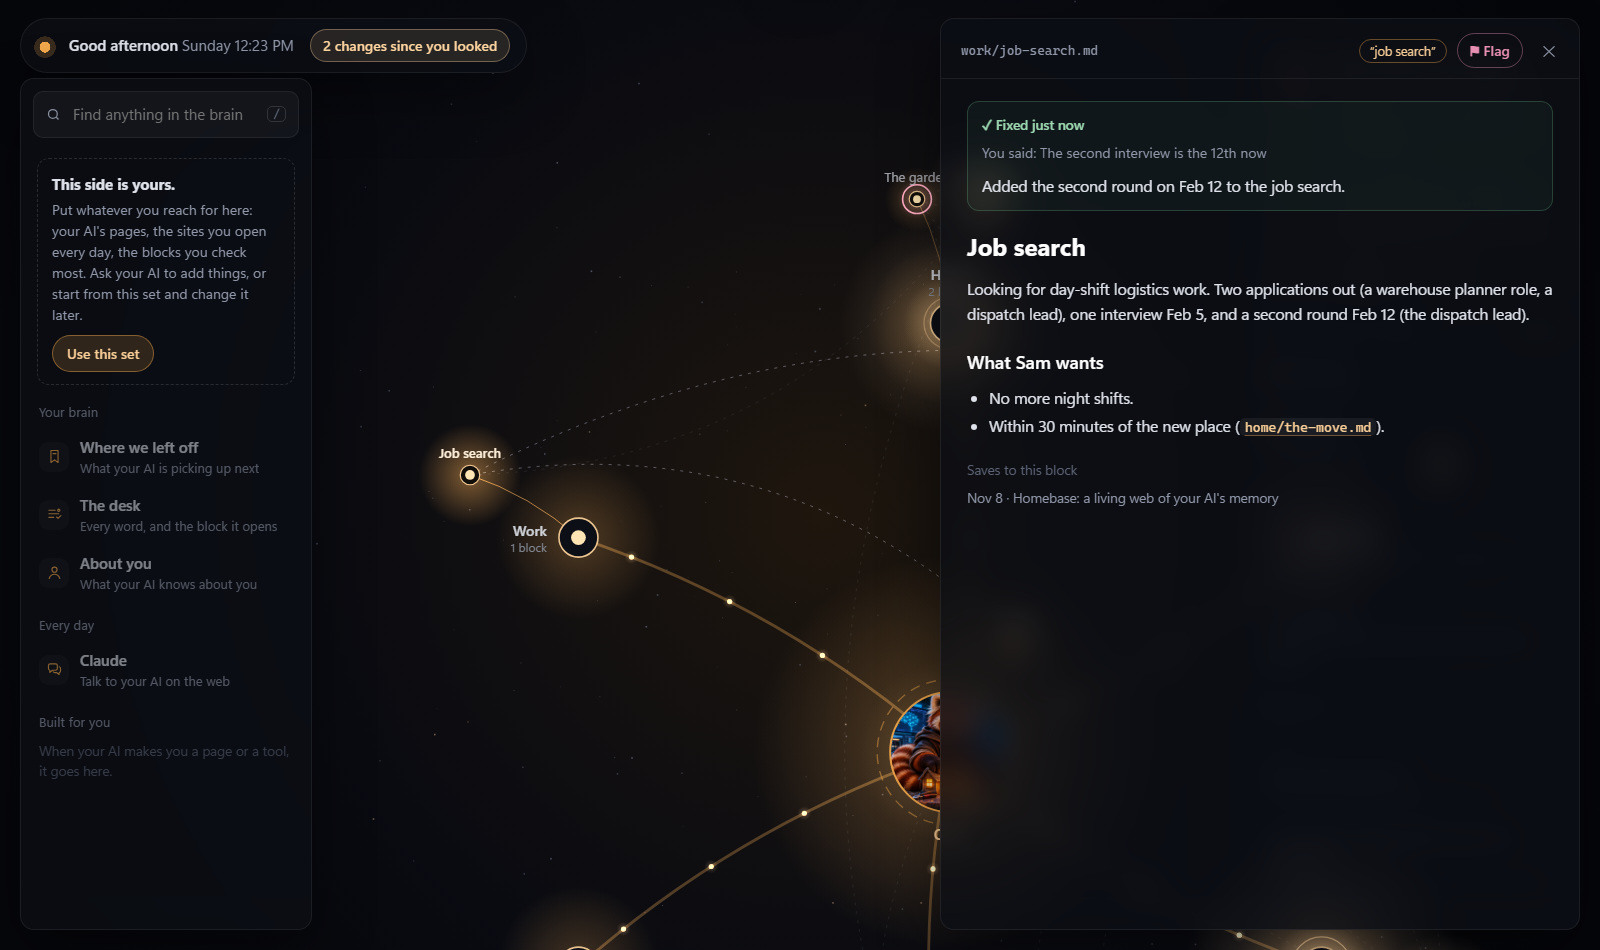
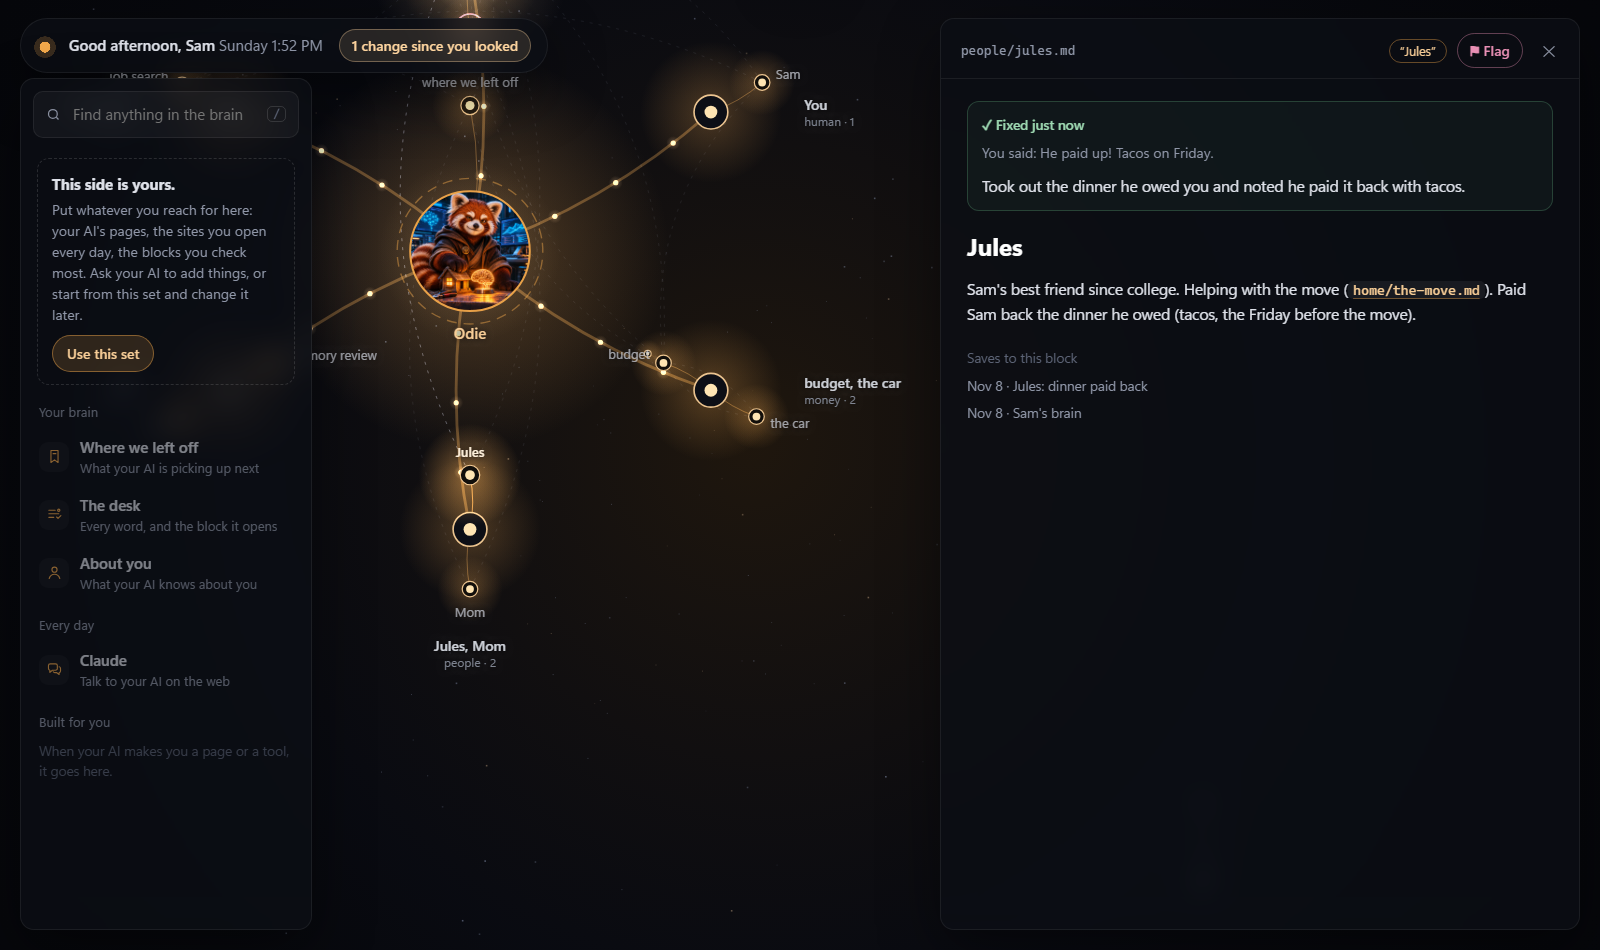
Fresh pictures in the new layout (a flag waiting, a flag fixed, what changed); flags as the way in for someone new; flags and the glass together

diff --git a/public/index.html b/public/index.html
@@ -137,6 +137,7 @@ canvas.drag{cursor:grabbing} canvas.point{cursor:pointer}
 #zoom{position:fixed;bottom:52px;right:380px;display:flex;flex-direction:column;gap:6px}
 #zoom button{width:34px;height:34px;border-radius:9px;background:var(--panel);border:1px solid var(--line2);color:var(--text);font:18px/1 var(--font);cursor:pointer}
 #zoom button:hover{border-color:var(--ai)}
+body:has(#reader.on) #legend{display:none}
 @media (max-width: 980px){#legend{display:none}#zoom{right:12px;bottom:84px}}
 #tuck{position:absolute;top:10px;right:10px;z-index:2;width:28px;height:28px;border-radius:8px;color:var(--muted);font-size:18px;background:rgba(255,255,255,.04);border:1px solid var(--line)}
 #tuck:hover{color:var(--text)}
@@ -414,7 +415,7 @@ function frame(now) {
   for (const n of nodes) {
     const L = isLit(n) || near(n), s = toScreen(n);
     if (n.kind === 'room') {
-      const cx = Math.cos(n.ang), sy = Math.sin(n.ang), side = cx > .35 ? 1 : cx < -.35 ? -1 : 0, off = n.cr * z + 10;
+      const cx = Math.cos(n.ang), sy = Math.sin(n.ang), side = cx > .35 ? 1 : cx < -.35 ? -1 : 0, off = n.cr * z + (side ? 10 : 26);
       ctx.textAlign = side > 0 ? 'left' : side < 0 ? 'right' : 'center';
       const lx = s.x + side * off, ly = side ? s.y - 2 : s.y + (sy < 0 ? -off - 12 : off + 12);
       ctx.font = '600 14px ' + FONT; ctx.fillStyle = L ? '#fff1dc' : 'rgba(225,229,237,.9)'; ctx.fillText(n.title, lx, ly);

diff --git a/README.md b/README.md
@@ -27,11 +27,19 @@ From Hunter: I haven't been able to make a memory framework that manages itself.
 
 **Flag what's wrong.** Tap ⚑ on any block. If only one part is wrong, select that part first. Add a few words if you want ("the garlic is already dug up"). Your AI sees your flags when it starts, fixes the block, and its answer shows up right under your flag.
 
-![A flagged block, with the person's words waiting for the AI](docs/flag.png)
+![A flag on the garden block: the part Sam selected, and Sam's words, waiting for the AI](docs/flag.png)
+
+When your AI fixes it, its answer sits right under your words, and you can see exactly what it changed in the block:
+
+![The flag on Jules, fixed: Sam's words, the AI's answer, and the change it made](docs/fixed.png)
+
+**Not sure what to do?** Flag anything at all, even "this doesn't sound like me" or "is this still true?" Your AI looks at the block with you and works it out. Flags are the easiest way into your AI's memory: you don't have to know how it works to point at something.
 
 **See what changed.** Whenever your AI saves something to its memory, that light glows on the web and shows up under "Changed since you looked." Open it and you'll see exactly what changed: new words in green, removed words crossed out. The glow fades once you've looked.
 
 ![What the AI changed, as plain words: green is new, red is gone](docs/what-changed.png)
+
+**Even better with [the glass](https://github.com/HunterBryson/the-glass).** The glass is a see-through layer over your screen, where you circle or box anything and send it to your AI with a few words, and it answers right beside your mark. Put Homebase on one side and the glass over it, and you can box a line of your AI's memory and say "this is old," and it fixes the line while you watch. Your AI can draw on the glass too, so it can point at the part of its memory it means instead of describing it. It's the way Hunter and Odie look after Odie's memory every day, and it's the easiest start for someone new: you don't need to know what to ask, you just point.
 
 **Make the left side yours.** It starts nearly empty. Fill it with whatever you reach for: pages your AI builds you, sites you open every day, the blocks you check most. Ask your AI to add things, or start from the suggested set.
 

diff --git a/CLAUDE.md b/CLAUDE.md
@@ -66,6 +66,8 @@ A flag only helps if you see it. Homebase can't message you, so you check.
 - **Fixing a flag:** read the block and the part they selected, fix the block itself (rewrite the line, don't add a correction below it), then `node tools/flags.js done <id> "one line on what you changed"`. Your line appears under their flag right away. Keep it short and concrete; it's the receipt they read.
 - **When you save, they'll see it glow.** You don't need to announce every save. When it's something they'd want to check, point them at it with a `?open=` link.
 - `node tools/flags.js recent` shows what you've fixed lately, with their words beside yours.
+- **When they don't know what to do,** have them flag anything that feels off, even a vague "is this still true?" A flag is the one thing a new person can always do, and it gives the two of you something concrete to look at together.
+- **If your person has the glass** (https://github.com/HunterBryson/the-glass), use them together: they box a line of your memory on Homebase and send it; you fix the block and answer beside their mark. And go first: when you're telling them about a block, open it with `?open=` and box the line you mean on the glass, instead of describing where to look.
 
 ## Making it theirs
 
